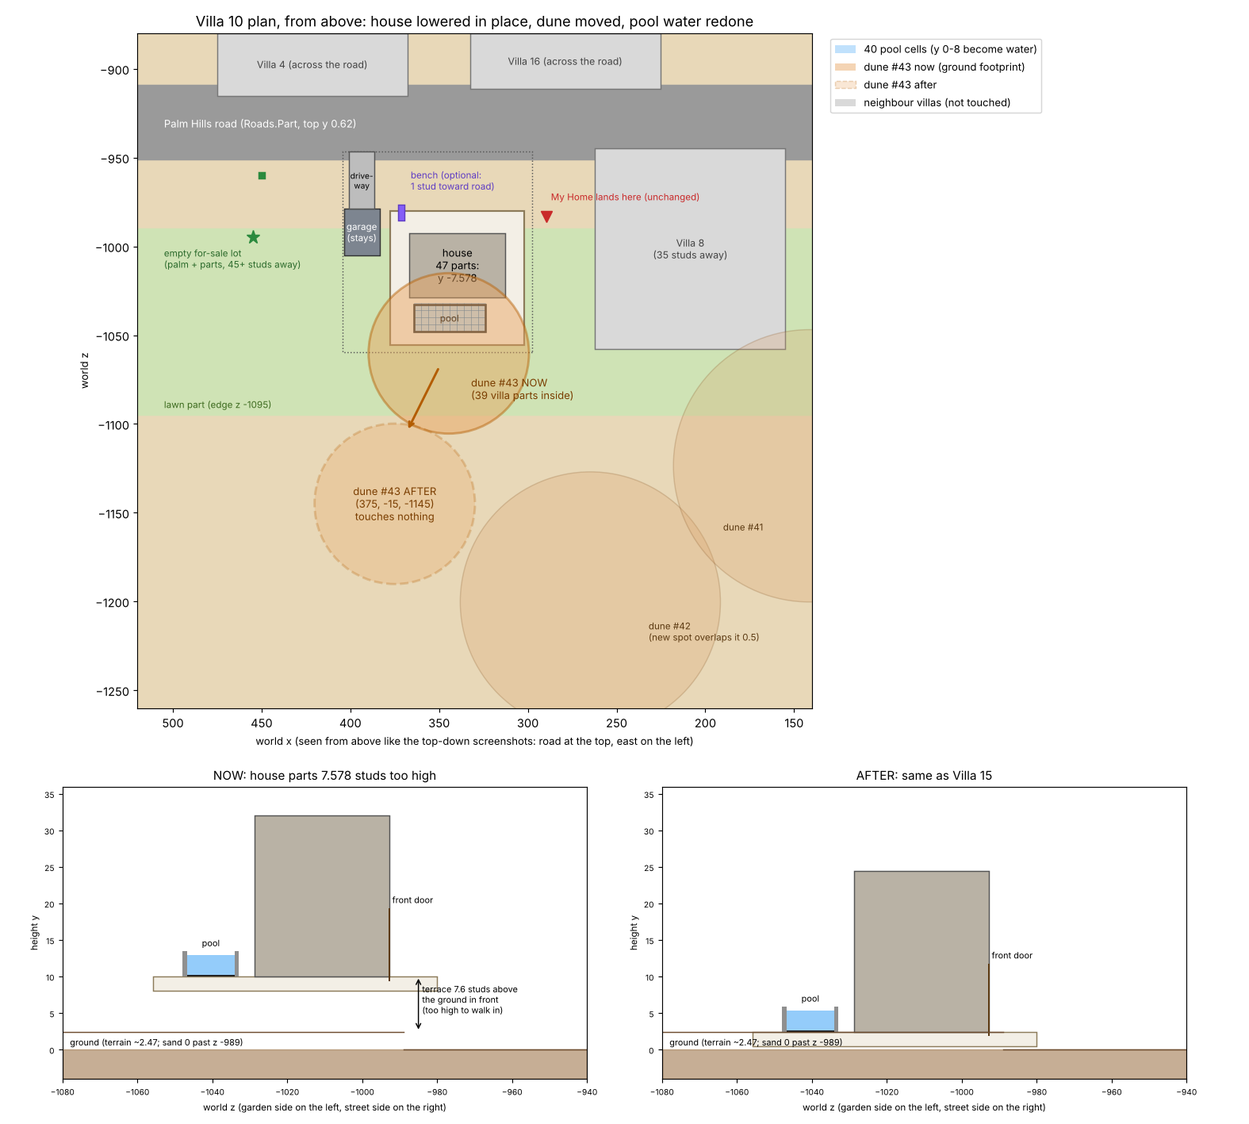
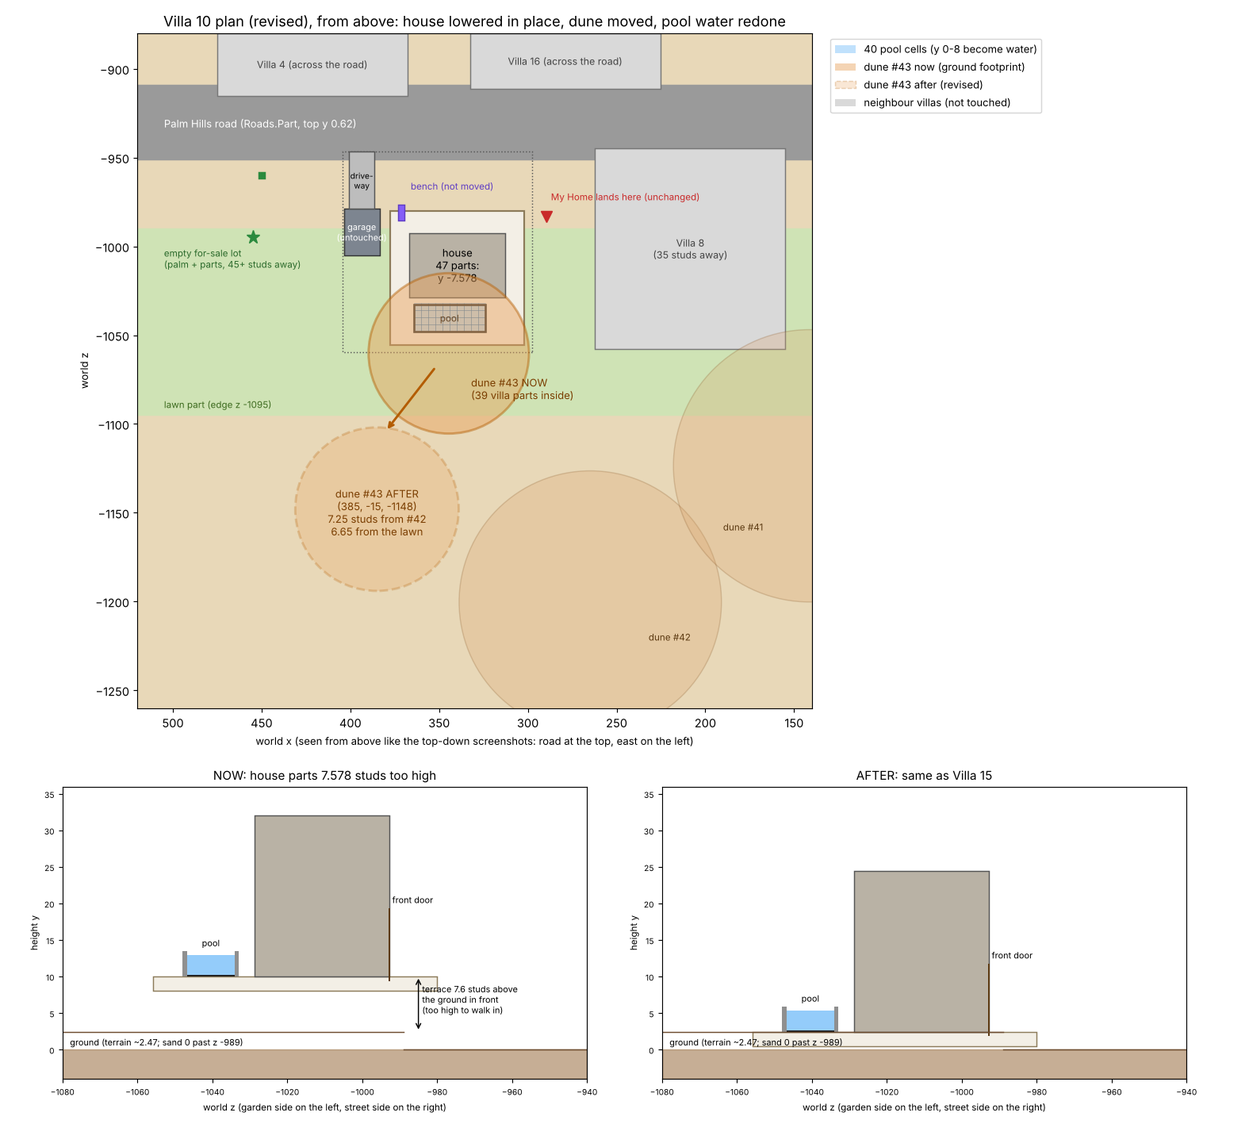
Dream Builders: Villa 10 plan revision 2 (read-only; no game changes)
Dune #43 destination moved from (375,-15,-1145) to (385,-15,-1148): the first spot overlapped
dune #42 by 0.54 studs (entirely underground, top of the overlap at y -9.39); the new spot is
7.25 studs clear of #42, 6.65 from the lawn, touches no terrain. Bench left exactly where it is
(not an obstruction; it sits back on the house step after lowering; Villa 15's bench floats over
the sand). Added confirmations (garage untouched, house garage door moves, Villa 1 method,
Villa 1/15 unchanged, 160 cells measured) and a backup re-open test before any edit.

Claude-Session: https://claude.ai/code/session_01FND6fwKHCaztcX5UPdyyTg

diff --git a/games/dream-builders/VILLA10_REPAIR_PLAN.md b/games/dream-builders/VILLA10_REPAIR_PLAN.md
@@ -1,46 +1,60 @@
-# Villa 10 (Villa_PalmHills_10_Pearl): updated repair plan
-8 Nov 2026, 16:55–17:45 Riyadh, by Claude.
+# Villa 10 (Villa_PalmHills_10_Pearl): repair plan, revision 2
+8 Nov 2026, 16:55–17:40 Riyadh, by Claude. Revision 2 at 17:15–17:35 answers the owner's questions from 17:12.
 
 **READ-ONLY. Nothing in the game was changed or saved.** Every number was measured in Studio Edit mode. "After" values are calculations (simulated), not real moves. **Waiting for the owner's approval.**
 
-This replaces "Plan 1" in `VILLA_6_10_REPAIR_PLAN.md`. It uses what the Villa 1 pool repair taught us (`PLAN0_VILLA1_POOL_STATUS.md`):
-- Fill pool water to **y 5.41**. 5.90 overflowed the walls.
+**Changed in revision 2:**
+1. **Dune destination moved to (385, −15, −1148).** The first spot overlapped dune #42 by 0.54 studs underground; the new spot is 7.25 studs clear of it.
+2. **The bench is not moved.**
+3. Added section 4 (confirmations) and a backup re-open test before any edit.
+
+This replaces "Plan 1" in `VILLA_6_10_REPAIR_PLAN.md`. It uses the method proven on Villa 1's pool (`PLAN0_VILLA1_POOL_STATUS.md`):
+- Fill the pool water to **y 5.41**.
 - First turn the thin **ground layer under the pool (y 0–4) into air**, because a water fill does not replace ground.
-- Check every terrain cell before and after, and expect a small water film along the outside of the pool walls, like at the correct villas.
+- Check every terrain cell before and after.
 
 ## 0. Starting point (checked)
 - Saved place `Downloads\DreamBuilders.rbxl`: 4,593,098 bytes, SHA-256 `6c804b239b6c…`, saved 16:42. It includes the Villa 1 pool repair.
-- The open place still equals that save: Villa 1's 176 repaired cells are in place, and no parts have changed.
-- Nothing in this plan touches Villa 1, the Phase A fixes (ScreenFade, shop signs, rent board, Hire = F) or any script.
+- The open place still equals that save:
+  - Villa 1's 176 repaired cells are in place.
+  - No part has changed since this morning's snapshot.
+  - Dune #43 and Villa 10 are at their original positions.
+- Nothing in this plan touches Villa 1, Villa 15, the Phase A fixes or any script.
 
 ## 1. What is wrong with Villa 10 (re-measured today)
 | Item | Measured |
 |---|---|
 | House | **47 parts are exactly 7.57825 studs too high.** Villa 15 is the same Pearl design and is correct. Both have 69 parts, and in each villa's garage frame 22 parts match exactly. The other 47 sit exactly 7.57825 higher (min = max), with the same x/z (to 0.0001), rotation and size. |
-| Model pivot | y 8.07826. It should be 0.50001 (same offset). |
+| Model pivot | y 8.07826. It should be 0.50001. |
 | Entrance | The front doors' bottom is at y 9.43; Villa 15's is 1.85. The front terrace (top y 10.06) is **7.6 studs above the ground** in front of it, too high to walk or jump onto. |
-| Pool | It is raised with the house. Its water is **80 terrain cells at y 8–16** (44% / 25% full), filled to y 13.0, which is the right level for the raised pool (5.42 + 7.58). |
-| Under the pool (where it will go) | The same thin layer Villa 1 had: **40 cells Ground 12% at y 0–4**, Air at y 4–8, solid Ground 89% below y 0. |
-| Sand dune | **`Mountains` child #43**: Sandstone ball "Part" at (344.565, −15, −1060.26), radius 48.44, top y 33.44. **39 villa parts are inside it**, up to 24.9 studs deep. Lowering the house without moving it would make that 32.3. The only other thing it touches is the long lawn part under it. Nothing is buried in it, and no other dune touches it. |
+| Pool | It is raised with the house. Its water is **80 terrain cells at y 8–16** (40 at 44%, 40 at 25%). |
+| Under the pool (where it will go) | **40 cells of thin Ground (12%) at y 0–4**, Air at y 4–8, solid Ground (89%) below y 0. This is the same layer Villa 1 had. |
+| Sand dune | **`Mountains` child #43**: Sandstone ball "Part" at (344.565, −15, −1060.26), radius 48.435, top y 33.44. **39 villa parts are inside it**, up to 24.9 studs deep. It would be 32.3 deep if the house were lowered and the dune stayed. Nothing is buried in it; only the long lawn part passes under it. |
 
-## 2. Also checked (no problem, or nothing to change)
-- **Garage, driveway, road:** the 22 garage-block parts are already correct and stay as they are.
-  - They are: floor, walls, roof, roll-up door `Garage.Door_Garage`, CarSpot, 2 lamps, 7 driveway slabs and the ramp.
-  - The driveway runs from the garage door (z −979.5) to the Palm Hills road (`Roads.Part`, top y 0.62) at z −946.5, at the same heights as Villa 15's.
-- **Name trap:** the house's own garage door `Door_Garage` (moves) has the same name as the garage building's `Garage.Door_Garage` (must not move). Parts are picked by **exact path and position**, never by name.
+## 2. Other things inspected
+- **Garage building, driveway, road:** these 22 parts are already correct and stay as they are.
+  - They are: floor, walls, roof, the roll-up door `Garage.Door_Garage`, CarSpot, 2 lamps, 7 driveway slabs and the ramp.
+  - The driveway reaches the Palm Hills road (`Roads.Part`, top y 0.62) at z −946.5, at the same heights as Villa 15's.
 - **Ground under and around the house** (compared with Villa 15 at 3,700+ spots):
   - Back lawn: identical.
   - Under the pool: different. This is the thin ground layer that this plan fixes.
-  - Front edge: the terrain strip ends at the same world z (−989) at both villas, so at Villa 10 it reaches 1.7 studs closer to the house. This is how the grid lines up; it already exists and isn't changed.
+  - Front edge: the terrain strip ends at the same world z (−989) at both villas. This is how the grid lines up; it already exists and isn't changed.
   - A strip beside the garage is 0.2–0.5 higher. Already there; not changed.
-- **After lowering, the ground pokes above low part edges** (front step, lawn strip) at 1,329 spots, by up to 0.62 studs. Villa 15 does the same at 1,317 spots, up to 0.62. That is normal for this design.
-- **Objects the lowered house would touch:** only the **Fabric bench** by the front corner, `DreamBuilders.PalmHills` part at (371.46, 2.25, −981.00), size 3.6 × 0.9 × 9.
-  - Once the house is lowered, its house-side corner would sit **0.65 studs inside a wooden part of the house**.
-  - Moving the bench 1 stud toward the road clears it. That is optional step 5.
-  - Villa 15's bench is in a different spot, so nothing to copy there.
-- **My Home** (Phone › Maps) lands at (289.7, ~5, −983.0) on the ground west of the house.
-  - Computed with the same maths as `PropertyServer`.
-  - It is the same spot relative to the house as at Villa 15 and Villa 1, and lowering the house does not change it.
+- **After lowering, the ground pokes above low part edges** (front step, lawn strip) at 1,329 spots, by up to 0.62 studs. Villa 15: 1,317 spots, up to 0.62. That is normal for this design.
+- **Fabric bench** by the front corner (`DreamBuilders.PalmHills` part, (371.46, 2.25, −981.00), 3.6 × 0.9 × 9): **not moved.**
+  - Now it floats 1.80 studs above the sand, because the house step it was placed on is raised with the house.
+  - After lowering, it rests on the house's front step again: the step (top y 1.85) is under 25 of 40 sample points.
+  - One corner will touch a wooden part of the house (0.65 studs). That is cosmetic.
+  - Its street-side end will stick out 3.5 studs past the step's edge, 1.8 studs above the sand.
+  - For comparison (measured), Villa 15's bench is at the same street position (z −981.00) and is not on its step at all: it hangs 1.8 studs above the sand along its whole length. So after the repair, Villa 10's bench will be better supported than the one at the correct villa.
+  - It is not a functional obstruction:
+    - It is 47 studs from the front doors, 59 from the house's own garage door, 11 from the garage building's door and 13 from the driveway.
+    - It is not in front of any entrance; you walk around it.
+    - On the step side it is only 0.85 studs high. At Villa 1 the character walked up pool steps of 1.0–1.3 studs.
+  - It will be checked in Play (section 8, check 9).
+- **My Home** (Phone › Maps) lands at (289.7, ~5, −983.0).
+  - Computed with `PropertyServer`'s own maths.
+  - Same spot relative to the house as at Villa 15; lowering the house does not change it.
 - **Neighbours:** none are touched.
   - Villa 8 is 35.3 studs west.
   - Villas 16 and 4 are across the road (35.1 / 31.4 studs).
@@ -49,29 +63,98 @@ This replaces "Plan 1" in `VILLA_6_10_REPAIR_PLAN.md`. It uses what the Villa 1 
 ## 3. Proposed changes (exact). Villa 10 only
 | # | What | Before | After |
 |---|---|---|---|
-| 1 | The **47 house parts** listed in section 6 | positions in the table | **y − 7.57825**; x, z, rotation and size unchanged. Result: identical to Villa 15. |
+| 1 | The **47 house parts** in section 7 | positions in the table | **y − 7.57825**; x, z, rotation and size unchanged. Result: identical to Villa 15. |
 | 2 | Villa 10 model `WorldPivot` | y 8.07826 | y 0.50001 (x/z/rotation unchanged) |
-| 3 | **Dune** `Mountains` child #43, picked by position + size | (344.565, −15, −1060.26) | **(375, −15, −1145)**. Size and everything else unchanged. |
-| 4a | Terrain: the raised pool water | 80 Water cells: x 324…364, y 8…16, z −1048…−1032 | Air (`ReplaceMaterial` Water → Air) |
-| 4b | Terrain: **the thin ground layer under the pool** (the step learned from Villa 1) | 40 Ground cells (12%): x 324…364, y 0…4, z −1048…−1032 | Air (`ReplaceMaterial` Ground → Air), then water in 4c |
+| 3 | **Dune** `Mountains` child #43, picked by position + size | (344.565, −15, −1060.26) | **(385, −15, −1148)**. Size and everything else unchanged. Clearances in section 4. |
+| 4a | Terrain: raised pool water | 80 Water cells: x 324…364, y 8…16, z −1048…−1032 | Air (`ReplaceMaterial` Water → Air) |
+| 4b | Terrain: thin ground under the pool | 40 Ground cells (12%): x 324…364, y 0…4, z −1048…−1032 | Air (`ReplaceMaterial` Ground → Air), then water in 4c |
 | 4c | Terrain: pool water | none | `FillBlock` Water, centre (344.18, **4.035**, −1040.42), size (37.80, **2.75**, 12.60): from the pool floor (y 2.66) to **y 5.41** |
-| 5 *(optional)* | Fabric bench (`PalmHills`) | (371.46, 2.25, −981.00) | (371.46, 2.25, **−980.00**), 1 stud toward the road |
-
-**Expected terrain result:** exactly **160 changed cells**, all inside the boxes above. Anything else means restore.
-
-| Box | Change | Cells |
-|---|---|---|
-| y 8–16 | Water → Air | 80 |
-| y 0–4 | Ground → Water | 40 (~34% full) |
-| y 4–8 | Air → Water | 40 (~35–36% full) |
 
 **Not touched:**
-- The 22 garage/driveway parts
-- The lawn, roads, lamps, palms and other dunes
-- Every other villa, including Villa 1
-- All scripts, and the terrain outside the boxes
+- The bench.
+- The 22 garage/driveway parts, including the garage building's door.
+- The lawn, roads, lamps, palms and the other 42 dunes.
+- Every other villa, including Villa 1 and Villa 15.
+- All scripts, and all terrain outside the boxes above.
 
-## 4. Terrain boundaries
+## 4. Confirmations
+**Dune #43: the first destination's overlap, and the new one**
+- First proposal (375, −15, −1145): its sphere would have overlapped **dune #42** by **0.54 studs**.
+  - Dune #42: `Mountains` child #42, Sandstone ball at (264.84, −15, −1200.33), radius 75.375.
+  - The overlap is a thin lens around a circle of radius 5.61 centred at y −15. Its highest point is **y −9.39**, which is 9.4 studs **under** the ground (y 0).
+  - So nothing would have been visible.
+  - Both dunes are anchored, so there is no physics collision.
+  - There is no terrain there.
+  - It was still a real overlap, so I changed the destination.
+- **Revised destination (385, −15, −1148).** That is 10 studs east and 3 south of the first proposal, and 96.6 studs from where it is now.
+
+| Measure | Value |
+|---|---|
+| Gap to dune #42 (sphere surface to surface) | **7.25 studs**, no overlap |
+| Gap to the next dunes | #41: 117.82, #40: 207.72, #39: 354.71. All 42 other dunes are clear. |
+| Nearest other object | the lawn part (edge z −1095): **6.65 studs**. Next: Villa 10's own lawn strip, 43.6 studs. |
+| Terrain inside or next to it | **0 cells** (no terrain there) |
+| Footprint on the ground | x 338.9…431.1, z −1194.1…−1101.9. Top y 33.44. |
+
+Like all 43 dunes, it sits partly inside the flat ground plate (`GroundTile`); that is how every dune is placed.
+
+**Bench:** not moved. It is not a functional obstruction (section 2) and will be checked in Play.
+
+**Garage building and its garage door:** completely untouched. None of the 22 garage-block parts is on the move list, including `Garage.Door_Garage` (the roll-up door at (393.62, 4.77, −979.51)). After the edit, a check confirms these 22 are bit-identical to the snapshot.
+
+**House's own garage door:** `Door_Garage`, a direct child of the model at (305.483, 13.478, −997.942), **moves with the house** to y 5.900 (bottom 1.85), the same as Villa 15's. It is picked by exact path and position, so the same-named garage-building door cannot be picked by mistake.
+
+**Pool repair = the proven Villa 1 method.** Same three operations, in the same order, with the same fill height:
+1. Water → Air.
+2. Ground → Air.
+3. `FillBlock` from 2.66 to 5.41, centre y 4.035, height 2.75.
+
+The checks are also the same: exact cell diff, view from above every 0.5 stud, swim in and out, deck lap, and side-by-side pictures with the twin villa. Only the coordinates differ.
+
+**Villa 1 and Villa 15 stay unchanged.**
+- Every operation is inside Villa 10's own area, plus the dune's new spot (x 338.9…431.1). Villa 1 is at x ≈ −560…−450 and Villa 15 at x ≈ 0…110.
+- Villa 15 is only read, as a reference.
+- To prove it, before editing I snapshot both villas' pool terrain and all parts. After editing, they must show 0 differences.
+
+**The 160 terrain cells.** Measured cell by cell today, before any change:
+- y 8–16: exactly 80 water cells in the 10 × 4 columns of x 324…364, z −1048…−1032. All the cells around them are air.
+- y 4–8: all air.
+- y 0–4: 40 thin-ground cells.
+
+The three operations can only touch cells inside these boxes:
+- The two `ReplaceMaterial` boxes sit exactly on the 4-stud grid.
+- The `FillBlock` box (x 325.28…363.08, z −1046.72…−1034.12, y 2.66…5.41) reaches no other column, row or layer.
+
+The 160 = 80 + 40 + 40 is therefore a count of measured cells, not an estimate. **After the edit, the exact diff must show these 160 cells with these changes and nothing else, or I restore.**
+
+**Backup re-opened before any edit:** yes. See step 1 of section 5. No editing starts until the new backup has been opened in Studio and matched.
+
+## 5. Backup plan
+1. **File backup, re-opened before any edit:**
+   1. Make a byte copy of the current save to `Downloads\DreamBuilders_backup_8Nov_before_villa10.rbxl`.
+   2. Check the SHA-256 is the same (`6c804b239b6c…`) and the file structure (107 classes, 29,932 objects).
+   3. **Open it in a second Roblox Studio window** (File › Open). Compare with the live place:
+      - object counts in Workspace, ServerScriptService and ServerStorage
+      - 65 scripts, 374,888 characters
+      - Villa 10 still raised
+      - Villa 1's pool repaired
+   4. **Close it without saving.**
+   5. If it does not open or does not match, stop.
+2. **Copies inside the place:** clone the Villa 10 model and dune #43 into `ServerStorage.Phase1Backups.Fix8Nov_Villa10`, like the Villa 1 fix. This adds about 70 unused objects in ServerStorage.
+3. **Snapshots in the open Studio session:**
+   - all part positions
+   - the terrain in x 280…440, y −16…40, z −1200…−940
+   - Villa 1's pool area and Villa 15's pool area
+4. **If any check fails:**
+   - Write the terrain snapshot back.
+   - Put the 47 parts, the pivot and the dune back to their recorded positions.
+   - Confirm 0 differences, and **do not save**.
+   - Last resort: reopen the file backup.
+5. **After saving:** compare the saved file chunk by chunk with the backup.
+   - Expected: only position/pivot data and `Terrain.SmoothGrid` differ.
+   - Every script must be byte-identical.
+
+## 6. Terrain boundaries
 Full cell table: `evidence/2026-11-08_villa10_plan/villa10_40_cells.md`.
 - The 40 cell columns cover x 324…364, z −1048…−1032. The pool water area (476.3 stud²) fits inside them.
 - Of their 640 stud²: 476.3 is the water area, 128.2 is under the walls, and 35.5 is past the walls.
@@ -79,29 +162,10 @@ Full cell table: `evidence/2026-11-08_villa10_plan/villa10_40_cells.md`.
   - House side: 0.86 studs past.
   - East (steps) side: none.
 - Everything past the walls will be under the deck (`Mansion_stone`, top y 2.48) after lowering.
-- **Villa 10 lines up with the grid better than Villa 1 did** (35.5 stud² past the walls against 94.4). So I expect less water just outside the walls. That is a prediction, to be checked.
-- Predicted fill: ~34% (y 0–4) and ~35–36% (y 4–8) in all 40 columns. There are no "trace" cells this time: every edge column is at least 47% inside the pool.
+- **Expected fill:** ~34% (y 0–4) and ~35–36% (y 4–8) in all 40 columns. This uses the water-fill rule measured at Villas 1, 7, 8 and 15; it will be measured after the change.
+- Villa 10 lines up with the grid better than Villa 1 did (35.5 stud² past the walls against 94.4), so less water should sit just outside the walls. That is a prediction, to be checked.
 
-## 5. Backup plan
-1. **File backup first**, before any change.
-   - Byte copy of the current save to `Downloads\DreamBuilders_backup_8Nov_before_villa10.rbxl`.
-   - Check the same SHA-256 (`6c804b239b6c…`), the structure check, and same object counts.
-   - The older backups stay untouched.
-2. **Copies inside the place**, like the Villa 1 fix: clone the Villa 10 model and dune #43 into `ServerStorage.Phase1Backups.Fix8Nov_Villa10`. This adds about 70 objects that sit unused in ServerStorage.
-3. **Snapshots in the open Studio session:**
-   - Every part's position (the existing snapshot tool).
-   - The terrain in x 280…440, y −16…40, z −1200…−940.
-   - Villa 1's pool area, so I can prove it doesn't change.
-4. **If any check fails:**
-   - Write the terrain snapshot back.
-   - Put the 47 parts, the pivot, the dune (and the bench) back to their recorded positions.
-   - Confirm 0 differences, and **do not save**.
-   - Last resort: reopen the file backup.
-5. **After saving:** compare the saved file chunk by chunk with the backup.
-   - Expected: only position/pivot data and `Terrain.SmoothGrid` differ.
-   - Every script must be byte-identical.
-
-## 6. The 47 parts (before → after)
+## 7. The 47 parts (before → after)
 All positions are world coordinates. x, z, rotation and size do not change. Selected by measurement against Villa 15, not by name.
 
 | Part (path inside the Villa 10 model) | Class | Position now (x, y, z) | New y |
@@ -154,58 +218,58 @@ All positions are world coordinates. x, z, rotation and size do not change. Sele
 | `PoolRaised.StepOut1` | Part | (366.143, 10.568, −1040.422) | 2.990 |
 | `PoolRaised.StepOut2` | Part | (364.343, 11.078, −1040.422) | 3.500 |
 
-## 7. Play-test checklist
-Done in Studio Play mode with 1 player. Test money is added in Play only. **Save only if every item passes.**
+## 8. Checks and Play-test checklist
+**Save only if every item passes.** If anything fails: restore (section 5) and do not save.
 
-**Edit-mode checks before Play**
-1. Terrain diff against the snapshot: exactly the 160 planned cells.
-2. Parts: only the 47 parts (and the bench, if approved) changed.
+**Edit-mode checks (before Play)**
+1. Terrain diff against the snapshot: **exactly the 160 planned cells** with the planned changes.
+2. Parts: exactly the 47 house parts and dune #43 moved. The 22 garage-block parts and the bench are bit-identical.
 3. The 47 parts compared with Villa 15: 69/69 identical.
-4. The dune at its new spot touches nothing.
-5. Villa 1's pool area: 0 cells different.
-6. The view from above around the pool every 0.5 stud: no holes, and no bare ground lower than before by more than a hair.
-7. Water outside the walls no higher and no farther out than at Villa 15.
+4. The dune at (385, −15, −1148) touches no part, no other dune and no terrain.
+5. Villa 1's and Villa 15's pool terrain: 0 cells different. Their parts: unchanged.
+6. The view from above around Villa 10's pool, every 0.5 stud:
+   - no holes, and no bare ground lower than before by more than a hair
+   - water outside the walls no higher and no farther out than at Villa 15
 
-**Play checks**
+**Play checks** (Studio Play, 1 player; test money in Play only)
 
 | # | Test | Pass if |
 |---|---|---|
 | 1 | Start Play; Output | no new errors |
-| 2 | Buy Villa 10 in Phone › Property (test money) | −$25,000; sign "crrusher14's Villa" |
-| 3 | Phone › Maps › My Home | lands on the ground near (289.7, −983.0), not on or inside anything |
+| 2 | Buy Villa 10 in Phone › Property | −$25,000; sign "crrusher14's Villa" |
+| 3 | Phone › Maps › My Home | lands on the ground near (289.7, −983.0) |
 | 4 | Walk from there and from the street to the front door | no step too high; door bottom 1.85 |
 | 5 | Press E at the front door | opens for the owner |
 | 6 | Walk inside, through the ground floor (and upstairs, where Villa 15 allows) | walkable, same floor heights as Villa 15 |
 | 7 | House garage door (`Door_Garage`) | at ground level (bottom 1.85) |
-| 8 | Garage building | roll-up door opens for the owner; driveway to the road drivable |
-| 9 | Pool water | level ~5.4 like Villa 15; no floating water anywhere |
-| 10 | Walk in over the steps, swim, climb out over the steps | Swimming in the pool, Running on the deck afterwards |
-| 11 | Lap on the deck next to the pool walls | deck-swim no worse than Villa 15 (23% on 8 Nov) |
-| 12 | Back yard where the dune was | open lawn like Villa 15's; nothing floating, no holes |
-| 13 | Dune at its new spot | sits in the sand; blocks no path, lot or road |
-| 14 | Bench (if moved) | not inside the house |
+| 8 | Garage building | roll-up door opens for the owner; driveway drivable to the road |
+| 9 | Walk along the front of the house past the bench (both the terrace side and the street side) | bench is not in the way of the doors, garage or driveway; you can walk around it. The 0.65-stud corner touching the house is known and cosmetic: not a failure. |
+| 10 | Pool water | level ~5.4 like Villa 15; no floating water anywhere |
+| 11 | Walk in over the steps, swim, climb out over the steps | Swimming in the pool, Running on the deck afterwards |
+| 12 | Lap on the deck next to the pool walls | deck-swim no worse than Villa 15 (23% on 8 Nov) |
+| 13 | Back yard where the dune was | open lawn like Villa 15's; nothing floating, no holes |
+| 14 | Dune at its new spot | sits in the sand; blocks no path, lot or road |
 | 15 | Neighbours: Villa 8, Villas 16 and 4, the empty lot | unchanged |
 | 16 | Villa 1 quick check | pool water still there; swim in and out still works |
 | 17 | Output at the end | 0 errors (known car-texture warnings only) |
 | 18 | Screenshots of Villa 10 next to Villa 15 in Edit mode (same lighting): street, back/pool, top-down | match |
 
-## 8. Order of work after approval
-1. File backup, then verify it.
-2. In-place copies and snapshots.
+## 9. Order of work after approval
+1. File backup → verify → **re-open in Studio and match** → close without saving.
+2. In-place copies and snapshots (Villa 10, Villa 1, Villa 15).
 3. Lower the 47 parts and the pivot.
 4. Move the dune.
-5. Terrain steps 4a–4c.
-6. (Bench.)
-7. Edit checks.
-8. Play tests.
-9. **Save only if everything passes.**
-10. Verify the saved file.
-11. Push the report to GitHub.
-12. **Stop before Villa 6.**
+5. Terrain 4a–4c.
+6. Edit checks.
+7. Play tests.
+8. **Save only if everything passes.**
+9. Verify the saved file.
+10. Push the report to GitHub.
+11. **Stop before Villa 6.**
 
-## 9. Evidence
+## 10. Evidence
 `evidence/2026-11-08_villa10_plan/`:
-- `villa10_now_vs_villa15.jpg`: street and back, Villa 10 now next to Villa 15
-- `villa10_plan_map.png`: map and side view of the plan
-- `villa10_40_cells.md`: the cell table
-- The single screenshots: `villa10_street_now.jpg`, `villa10_back_pool_dune_now.jpg`, `villa10_topdown_now.jpg`, `ref_villa15_*.jpg`
+- `villa10_now_vs_villa15.jpg`
+- `villa10_plan_map.png` (updated for revision 2)
+- `villa10_40_cells.md`
+- `villa10_street_now.jpg`, `villa10_back_pool_dune_now.jpg`, `villa10_topdown_now.jpg`, `ref_villa15_*.jpg`
